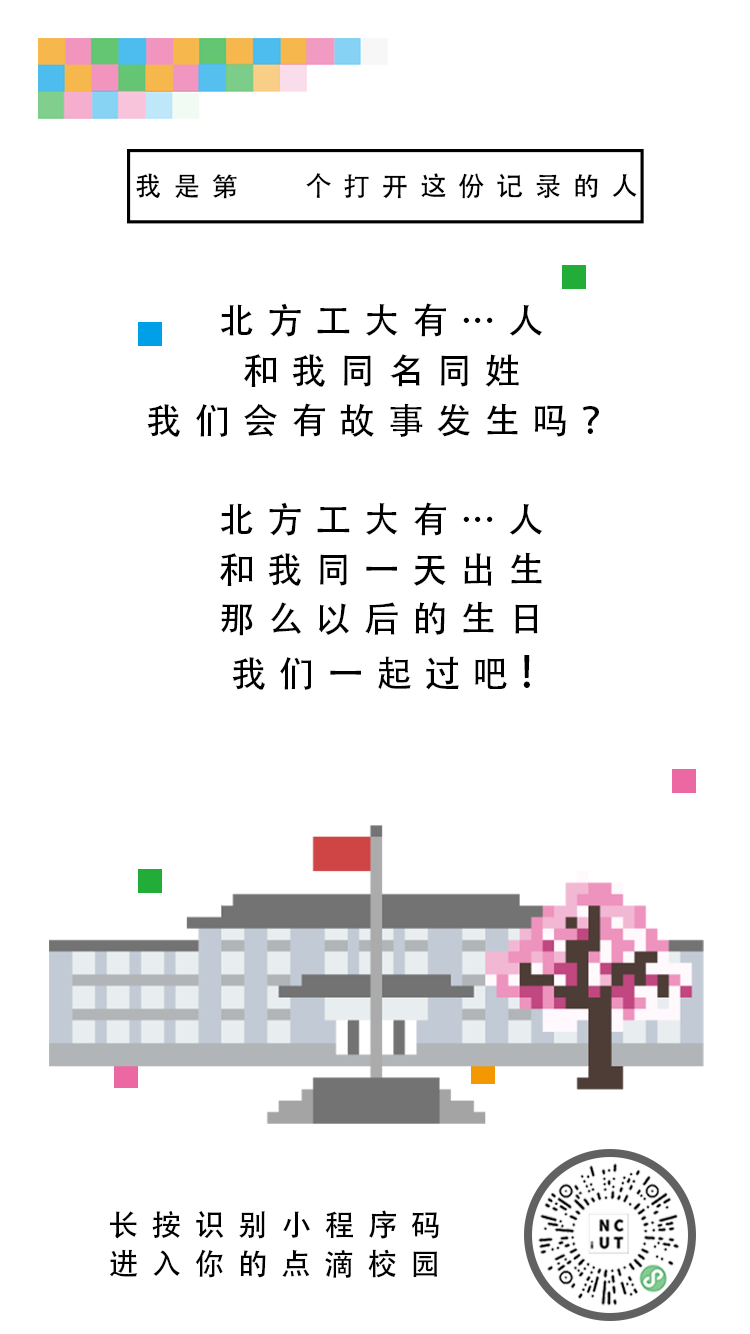
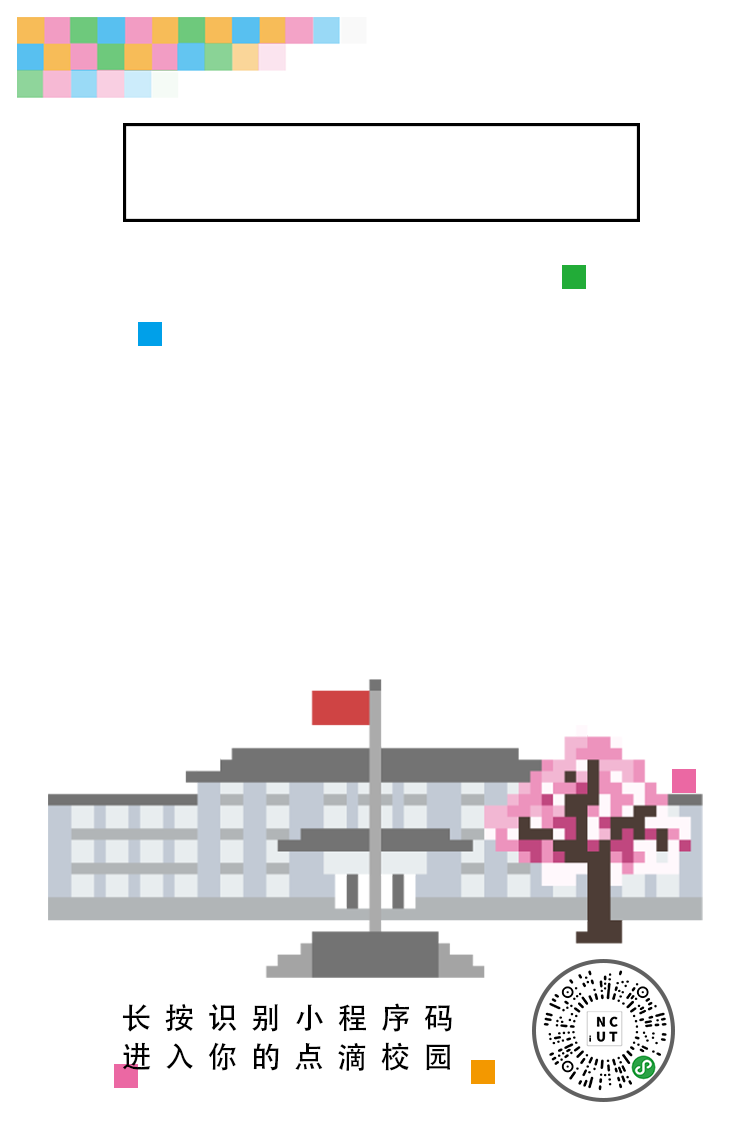
开发点滴校园

diff --git a/app/static/2019SchoolLife/js/main.js b/app/static/2019SchoolLife/js/main.js
@@ -113,11 +113,12 @@ function makePic(img_url, text) {
         myCanvas.height = img.height;
         var ctx = myCanvas.getContext("2d")
         ctx.drawImage(img, 0, 0);
+        ctx.font = "50px Arial";
+        ctx.fillText("我是第"+count+"个打开这份记录的人", 320, 150);
         ctx.font = "35px Arial";
-        ctx.textAlign="center"
-        var y = 150
+        var y = 250
         for (var i = 0; i < text.length; i++) {
-            ctx.fillText(text[i], 320, y);
+            ctx.fillText(text[i], 40, y);
             y += 80
         }
         var url = myCanvas.toDataURL("image/png", 1)

diff --git a/app/static/2019SchoolLife/css/style.css b/app/static/2019SchoolLife/css/style.css
@@ -330,8 +330,8 @@ em {
 
 #share-img{
     z-index: 1;
-    width: 642px;
-    height: 1143px;
+    width: 750px;
+    height: 1124px;
     margin-top: 60px;
     border:10px solid #a8aaab;
 }

diff --git a/app/templates/2019SchoolLife.html b/app/templates/2019SchoolLife.html
@@ -534,6 +534,7 @@
     ]
     var index=0
     var userid={{data.userid}}
+    var count={{data.count}}
 </script>
 <script src="static/2019SchoolLife/js/main.js"></script>
 </body>
